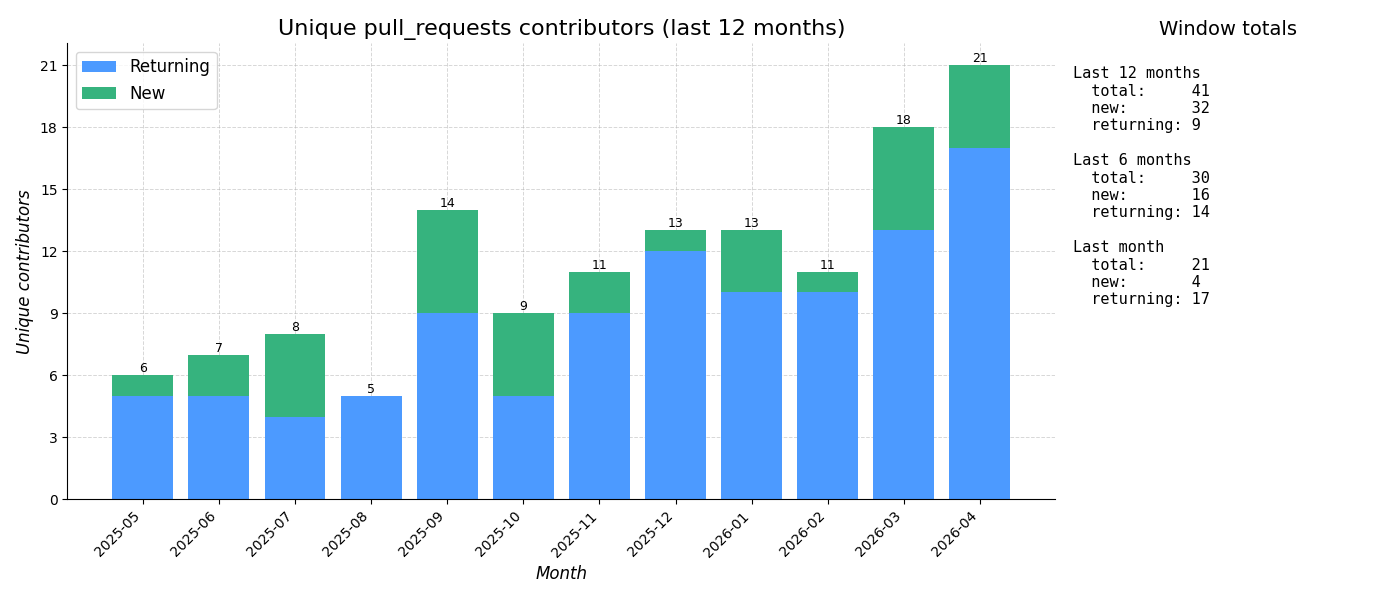
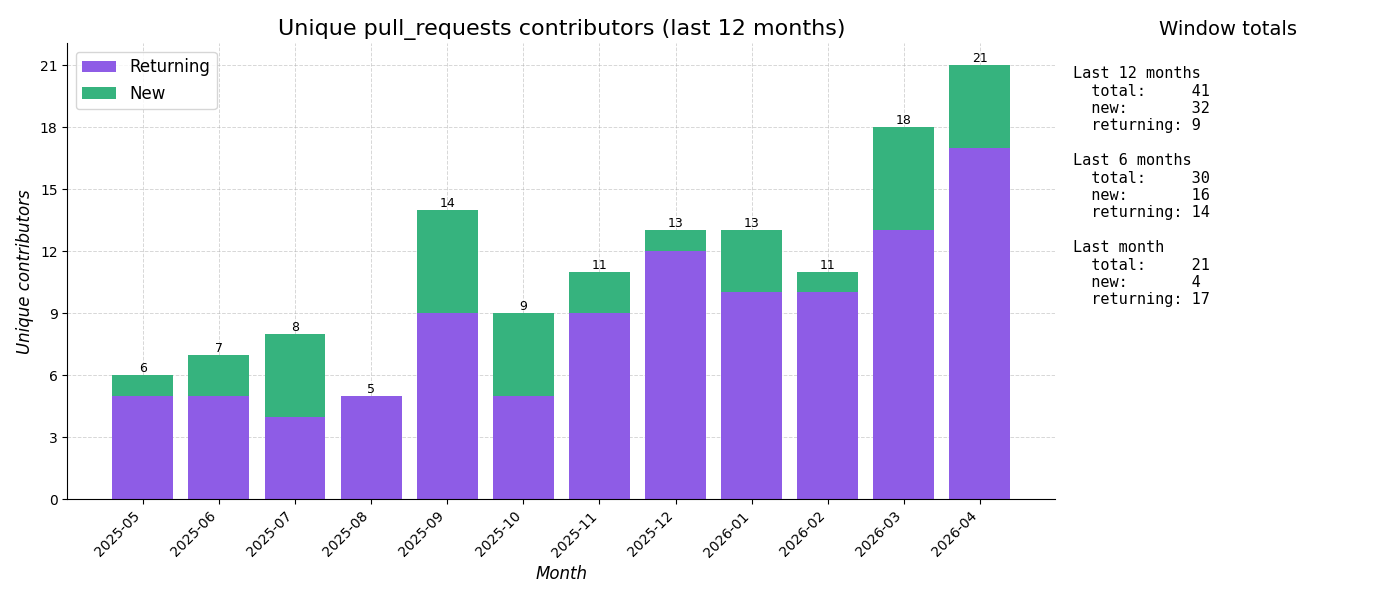
Recolor returning-contributor bars purple

Changed region(s): [[0.0614, 0.24, 0.7371, 0.84], [0.0614, 0.09, 0.0921, 0.12]]

diff --git a/scripts/util/plot.py b/scripts/util/plot.py
@@ -597,7 +597,7 @@ def plot_unique_contributors(path, table, output_path, window_months=12):
         )
 
         x = np.arange(len(window))
-        ax.bar(x, returning_counts.values, color="#4C9AFF", label="Returning")
+        ax.bar(x, returning_counts.values, color="#8E5CE6", label="Returning")
         ax.bar(x, new_counts.values, bottom=returning_counts.values,
                color="#36B37E", label="New")
 
